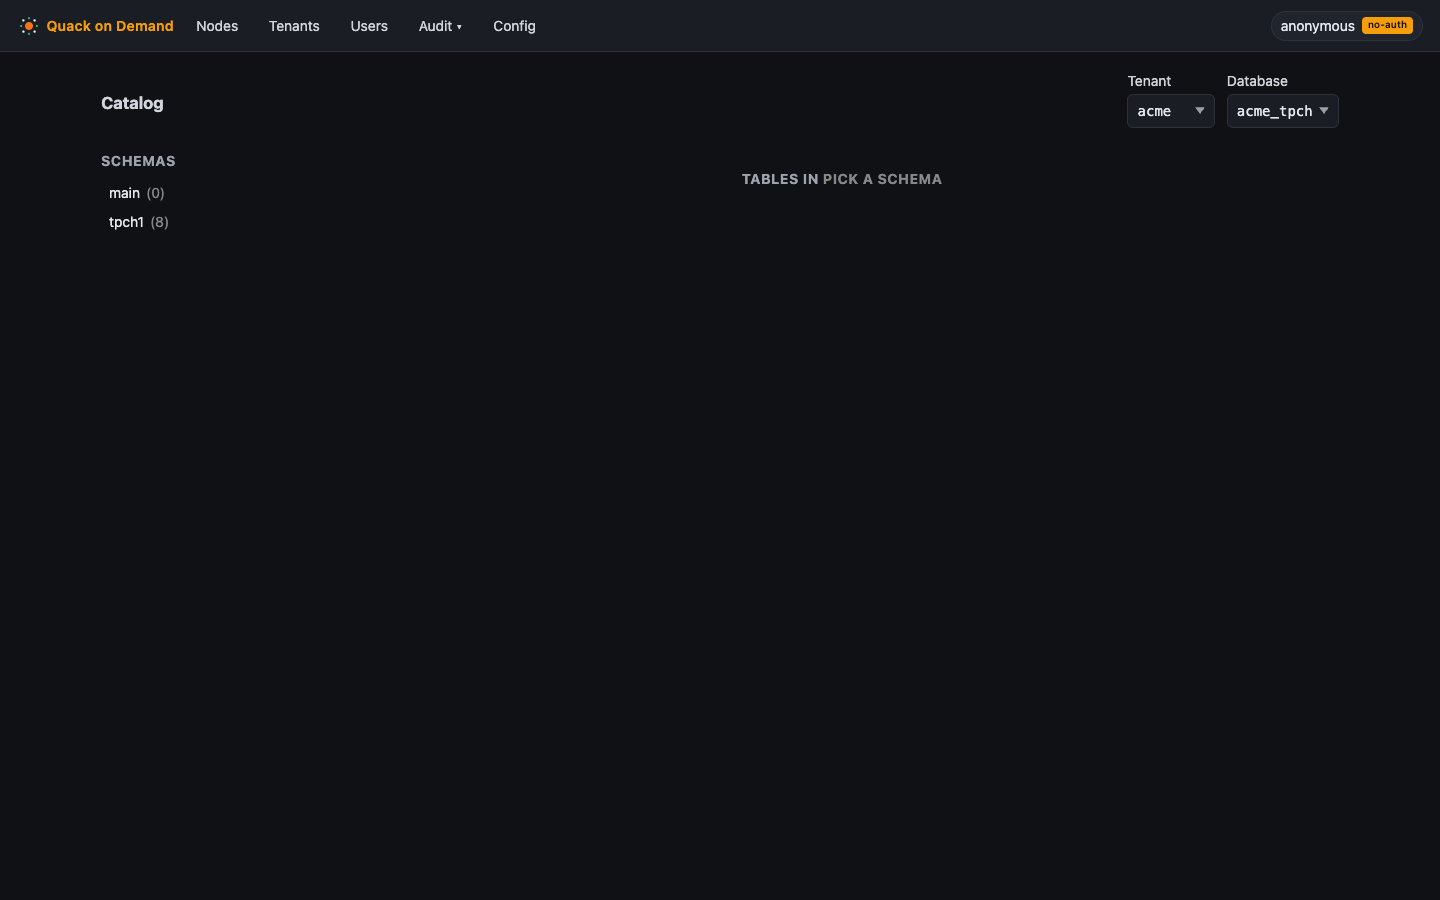
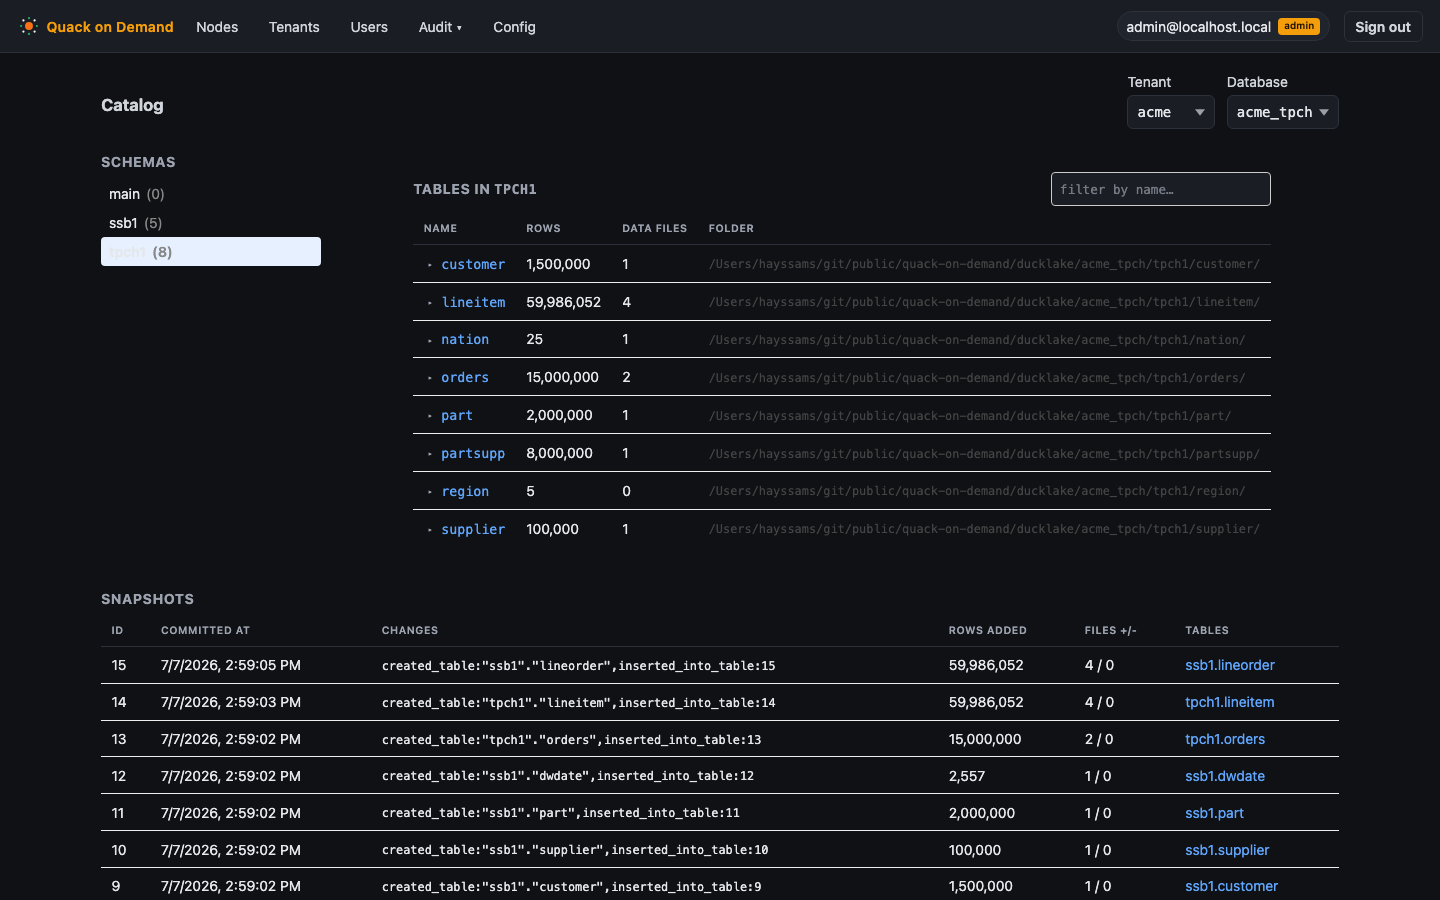
docs(site): refresh catalog screenshot and add snapshots panel + AS OF view captures

diff --git a/website/docs/operating/admin-ui.md b/website/docs/operating/admin-ui.md
@@ -136,7 +136,11 @@ Clicking a table opens its detail page, with breadcrumbs back to the catalog and
 
 Below the table list, a **Snapshots** panel shows the database's DuckLake snapshot history, newest first: snapshot id, commit time, the raw change summary (`created_table:...`, `inserted_into_table:...`), rows added, files added / removed, and the affected tables. Each affected table links to its detail page as of that snapshot. The panel loads 200 snapshots at a time; **Load older snapshots** fetches the next page (keyset pagination, so new commits do not shift the window while you browse).
 
+![The snapshots panel with the demo database's history](/img/ui/snapshots.png)
+
 On the table detail page, a **Snapshot** selector switches between the current state and any listed snapshot: the summary, column list, and parquet files re-render as of the chosen snapshot, a banner recalls which snapshot is shown, and **back to current** drops it. The view is addressable directly with the `?asOf=<snapshot id>` query parameter (what the panel's deep links use). Picking a snapshot where the table did not yet exist shows a not-found message while keeping the selector usable, and an unknown snapshot id is a 404 rather than an empty render.
+
+![A table viewed as of a snapshot, with the AS OF banner](/img/ui/catalog-asof.png)
 
 Snapshot semantics (linear history, inlined DML, retention and expiry) are covered in [DuckLake catalogs](/concepts/catalogs#snapshots-and-time-travel).
 